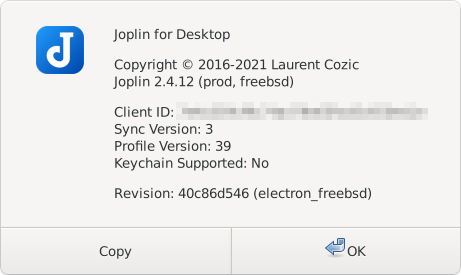
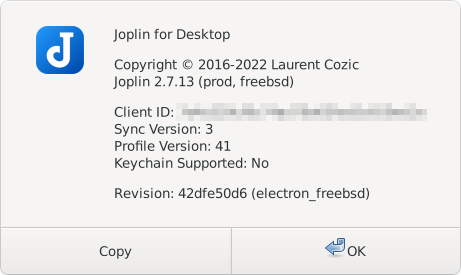
Update target Joplin version to 2.7.13

diff --git a/content/playing-with-bsd/application/howto-use-joplin-on-freebsd.md b/content/playing-with-bsd/application/howto-use-joplin-on-freebsd.md
@@ -1,7 +1,7 @@
 ---
 title: "How to use Joplin desktop app on FreeBSD"
 date: 2020-01-15T20:26:00+09:00
-lastmod: 2021-10-26T17:42:39+09:00
+lastmod: 2022-03-01T22:01:00+09:00
 draft: false
 tags: [ "application", "installation", "freebsd", "font" ]
 toc: true
@@ -11,16 +11,16 @@ This is a quick note on how I build and use the latest Joplin desktop app on Fre
 For my initial exploration of Joplin on FreeBSD, please refer to the [previous post](/playing-with-bsd/application/joplin-on-freebsd).
 
 ## Target Version
-The current target version of this article is Joplin Desktop release v2.4.12 (Oct 2021).  
-I confirmed that the app could be built using my fork at the tag [freebsd-v2.4.12](https://github.com/genneko/joplin/releases/tag/freebsd-v2.4.12).
+The current target version of this article is Joplin Desktop release v2.7.13 (Feb 2022).  
+I confirmed that the app could be built using my fork at the tag [freebsd-v2.7.13](https://github.com/genneko/joplin/releases/tag/freebsd-v2.7.13).
 ![Joplin Version](/images/howto-use-joplin-on-freebsd/JoplinVersion.png)
 
 ## Building Joplin
-I take the following steps to build Joplin desktop on my FreeBSD 12.2-RELEASE system (with XFCE4 desktop).
+I take the following steps to build Joplin desktop on my FreeBSD 12.3-RELEASE system (with XFCE4 desktop).
 
 1. Install dependencies such as Electron and Nodejs.  
-   As of 26 Oct 2021, all dependencies except electron12 can be installed from the FreeBSD's official packages.  
-   (electron12 binary package is not available for FreeBSD 12/amd64 yet. Ones for FreeBSD 13/amd64 and some other architectures/versions are available.)
+   As of 27 Feb 2022, all dependencies except electron13 can be installed from the FreeBSD's official packages.  
+   (electron13 binary package is not available for FreeBSD 12/amd64 yet, while ones for FreeBSD 13/amd64 and some other architectures/versions are available.)
    ```
    sudo pkg install node npm-node python vips git rsync gnome-keyring gmake
    ```
@@ -28,15 +28,18 @@ I take the following steps to build Joplin desktop on my FreeBSD 12.2-RELEASE sy
    > To use the latest software versions, you might want to switch the package repository from 'quarterly' to 'latest'.  
    > Please refer to the [relevant section](https://www.freebsd.org/doc/handbook/pkgng-intro.html#quarterly-latest-branch) of the FreeBSD Handbook for the steps.
 
-   For now, you have to install electron12 by building its port.  
+   For now, on 12.x you have to install electron13 by building its port.  
    The most basic steps to build the port are something like:  
    ```
    sudo portsnap fetch update
-   cd /usr/ports/devel/electron12
+   cd /usr/ports/devel/electron13
    sudo make install
    ```
    But I'm using poudriere to build specific ports, actually.  
-   Please note that building a huge software like electron with poudriere requires some care (Refer to <a href="https://twitter.com/genneko217/status/1452748669736787969">My tweet</a>).
+   Please note that building a huge software like electron with poudriere requires some care (Refer to <a href="https://twitter.com/genneko217/status/1452748669736787969">My tweet</a>).  
+
+   Another option is to download and install a pre-built binary package from the pre-official repository at the following URL.  
+   https://github.com/tagattie/FreeBSD-Electron
 
 2. Clone my forked version of Joplin and switch to electron_freebsd branch, which includes some modifications for FreeBSD.
    ```
@@ -47,9 +50,9 @@ I take the following steps to build Joplin desktop on my FreeBSD 12.2-RELEASE sy
    ```
    > **NOTE**  
    > If the head of the branch cannot be built (it occurs from time to time), please try the tagged version which I confirmed to be built.  
-   > As of 26 Oct 2021, the latest confirmed tag is [freebsd-v2.4.12](https://github.com/genneko/joplin/releases/tag/freebsd-v2.4.12) and it can be checked out as follows:  
+   > As of 27 Feb 2022, the latest confirmed tag is [freebsd-v2.7.13](https://github.com/genneko/joplin/releases/tag/freebsd-v2.7.13) and it can be checked out as follows:  
    > ```
-   > git checkout freebsd-v2.4.12
+   > git checkout freebsd-v2.7.13
    > ```
 
 3. Make a small tweak to work around the [lzma-native build failure issue](https://github.com/addaleax/lzma-native/issues/98).  
@@ -70,7 +73,7 @@ I take the following steps to build Joplin desktop on my FreeBSD 12.2-RELEASE sy
 
 4. Now you can run the desktop (Electron) app by running the following command  
    ```
-   electron12.
+   electron13 .
    ```
    or by running a script included in my fork
    ```
@@ -197,3 +200,4 @@ Fortunately, this issue can be worked around by using a [special font](/misc/NoL
 * 2021-08-14: Update the target version to 2.2.7.
 * 2021-08-18: Update the target version to 2.3.5.
 * 2021-10-26: Update the target version to 2.4.12
+* 2022-03-01: Update the target version to 2.7.13
